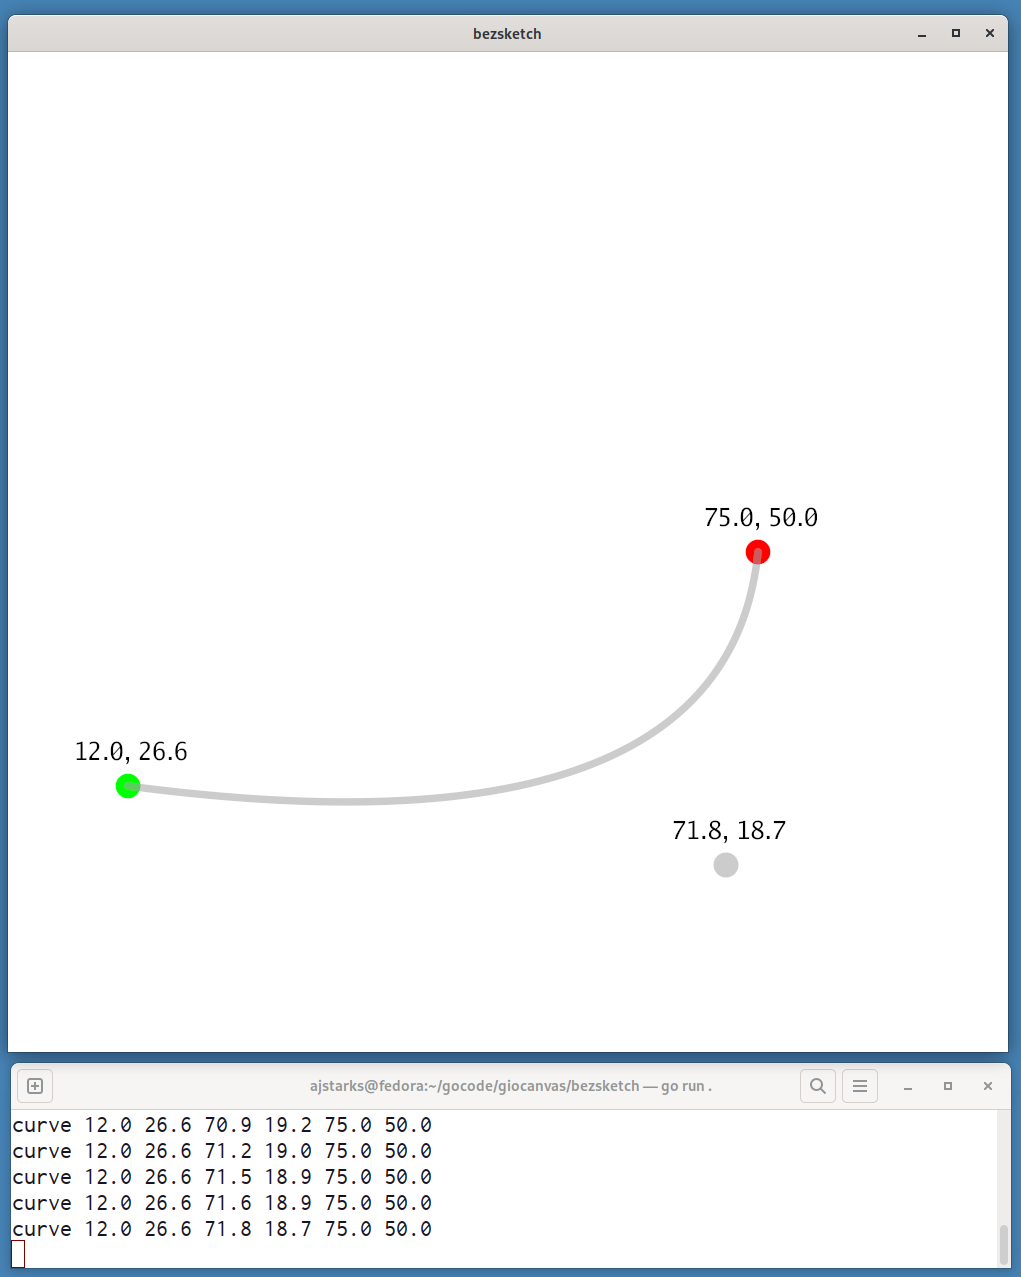
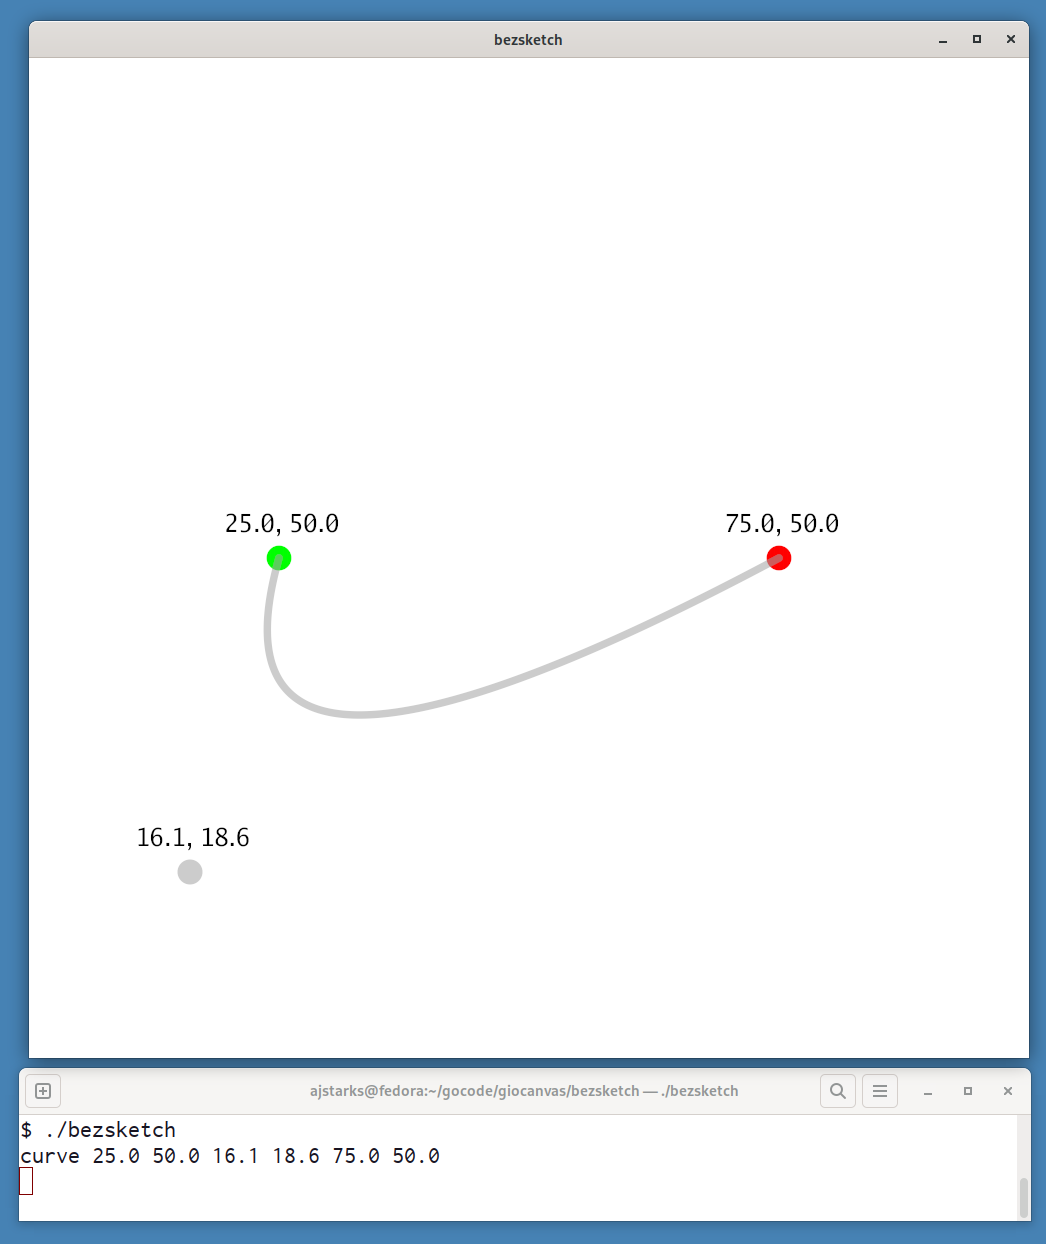
bezsketch: switch to pointer move for the control point, middle pointer for curve spec

diff --git a/bezsketch/main.go b/bezsketch/main.go
@@ -57,12 +57,12 @@ func textcoord(canvas *giocanvas.Canvas, x, y, size float32, color color.NRGBA) 
 	canvas.TextMid(x, y+size, size, ftoa(x)+","+ftoa(y), black)
 }
 
-// pctmousePos records the mouse position in percent coordinates
-func pctmousePos(q event.Queue, width, height float32) {
+// pctPointerPos records and processes the pointer events in percent coordinates
+func pctPointerPos(q event.Queue, width, height float32) {
 	for _, ev := range q.Events(pressed) {
 		if p, ok := ev.(pointer.Event); ok {
 			switch p.Type {
-			case pointer.Drag:
+			case pointer.Move:
 				mouseX, mouseY = pctcoord(p.Position.X, p.Position.Y, width, height)
 			case pointer.Press:
 				switch p.Buttons {
@@ -70,6 +70,8 @@ func pctmousePos(q event.Queue, width, height float32) {
 					bx, by = pctcoord(p.Position.X, p.Position.Y, width, height)
 				case pointer.ButtonSecondary:
 					ex, ey = pctcoord(p.Position.X, p.Position.Y, width, height)
+				case pointer.ButtonTertiary:
+					io.WriteString(os.Stdout, "curve"+ftoa(bx)+ftoa(by)+ftoa(cx)+ftoa(cy)+ftoa(ex)+ftoa(ey)+"\n")
 				}
 				pressed = true
 			}
@@ -77,8 +79,9 @@ func pctmousePos(q event.Queue, width, height float32) {
 	}
 }
 
-// bezsketch sketches quadratic bezier curves:
-// left mouse defines the begin point, right mouse the end, drag defines the control point
+// bezsketch sketches quadratic bezier curves: left pointer press defines the begin point,
+// right pointer press defines the end point, middle pointer press shows the curve spec,
+// pointer move defines the control point
 func bezsketch(w *app.Window, width, height float32) error {
 	beginColor := color.NRGBA{R: 0, G: 255, B: 0, A: 255}
 	endColor := color.NRGBA{R: 255, G: 0, B: 0, A: 255}
@@ -93,22 +96,21 @@ func bezsketch(w *app.Window, width, height float32) error {
 	for {
 		ev := <-w.Events()
 		switch e := ev.(type) {
+		// return an error on close
 		case system.DestroyEvent:
 			return e.Err
+
 		// for each frame:
-		// register press and drag events,
-		// draw coordinates, and the curve,
-		// display curve defintion on stdout,
-		// track the mouse position
+		// register press and move events, draw coordinates, and the curve,
+		// track the pointer position for the control point, show curve spec on middle click
 		case system.FrameEvent:
 			canvas := giocanvas.NewCanvas(width, height, system.FrameEvent{})
-			pointer.InputOp{Tag: pressed, Grab: false, Types: pointer.Press | pointer.Drag}.Add(canvas.Context.Ops)
+			pointer.InputOp{Tag: pressed, Grab: false, Types: pointer.Press | pointer.Move}.Add(canvas.Context.Ops)
 			textcoord(canvas, bx, by, ts, beginColor)
 			textcoord(canvas, ex, ey, ts, endColor)
 			textcoord(canvas, cx, cy, ts, curveColor)
 			canvas.QuadStrokedCurve(bx, by, cx, cy, ex, ey, 0.75, curveColor)
-			io.WriteString(os.Stdout, "curve"+ftoa(bx)+ftoa(by)+ftoa(cx)+ftoa(cy)+ftoa(ex)+ftoa(ey)+"\n")
-			pctmousePos(e.Queue, width, height)
+			pctPointerPos(e.Queue, width, height)
 			cx, cy = mouseX, mouseY
 			e.Frame(canvas.Context.Ops)
 		}
